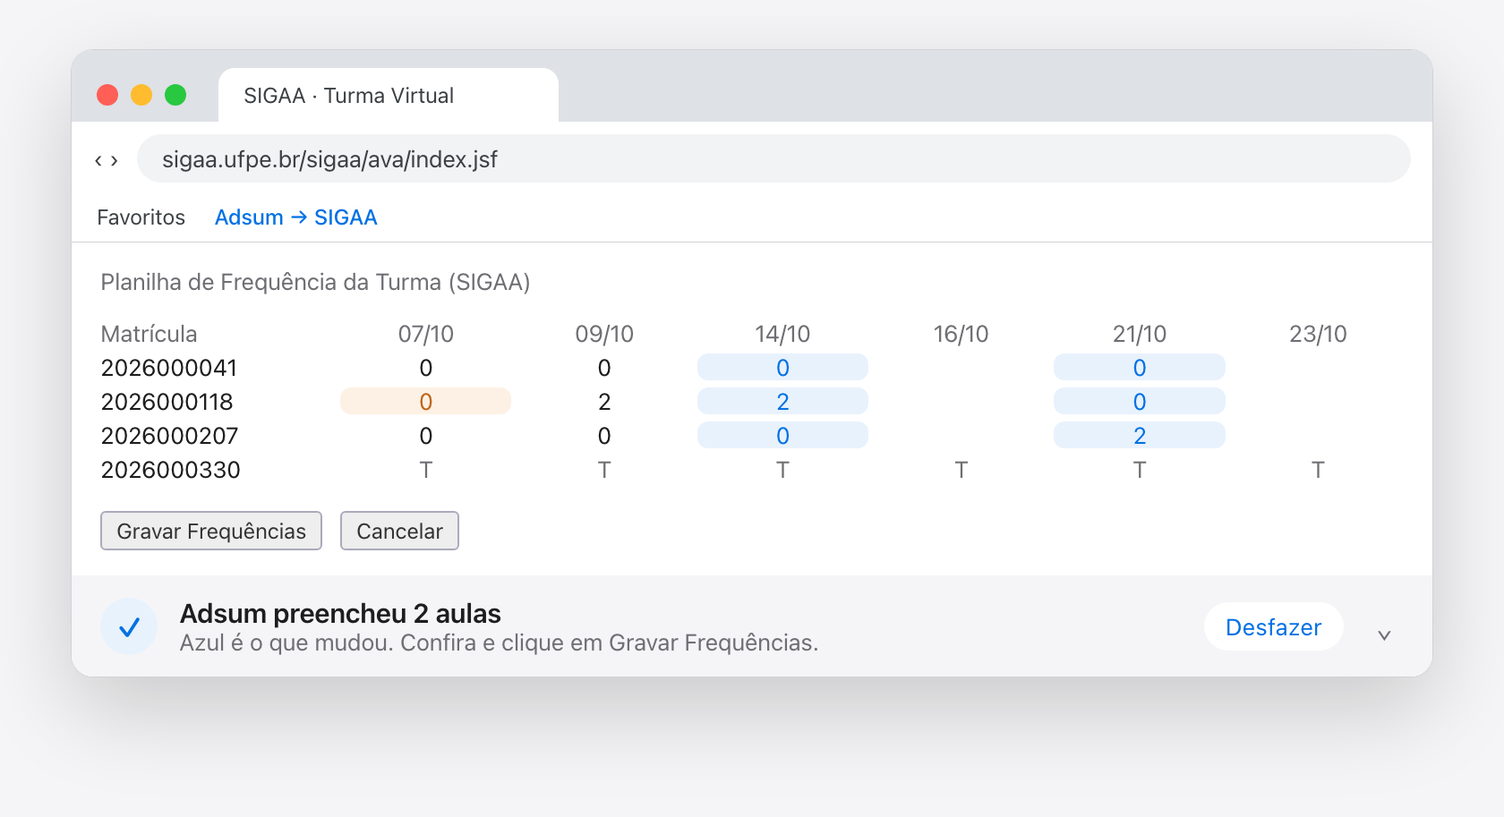
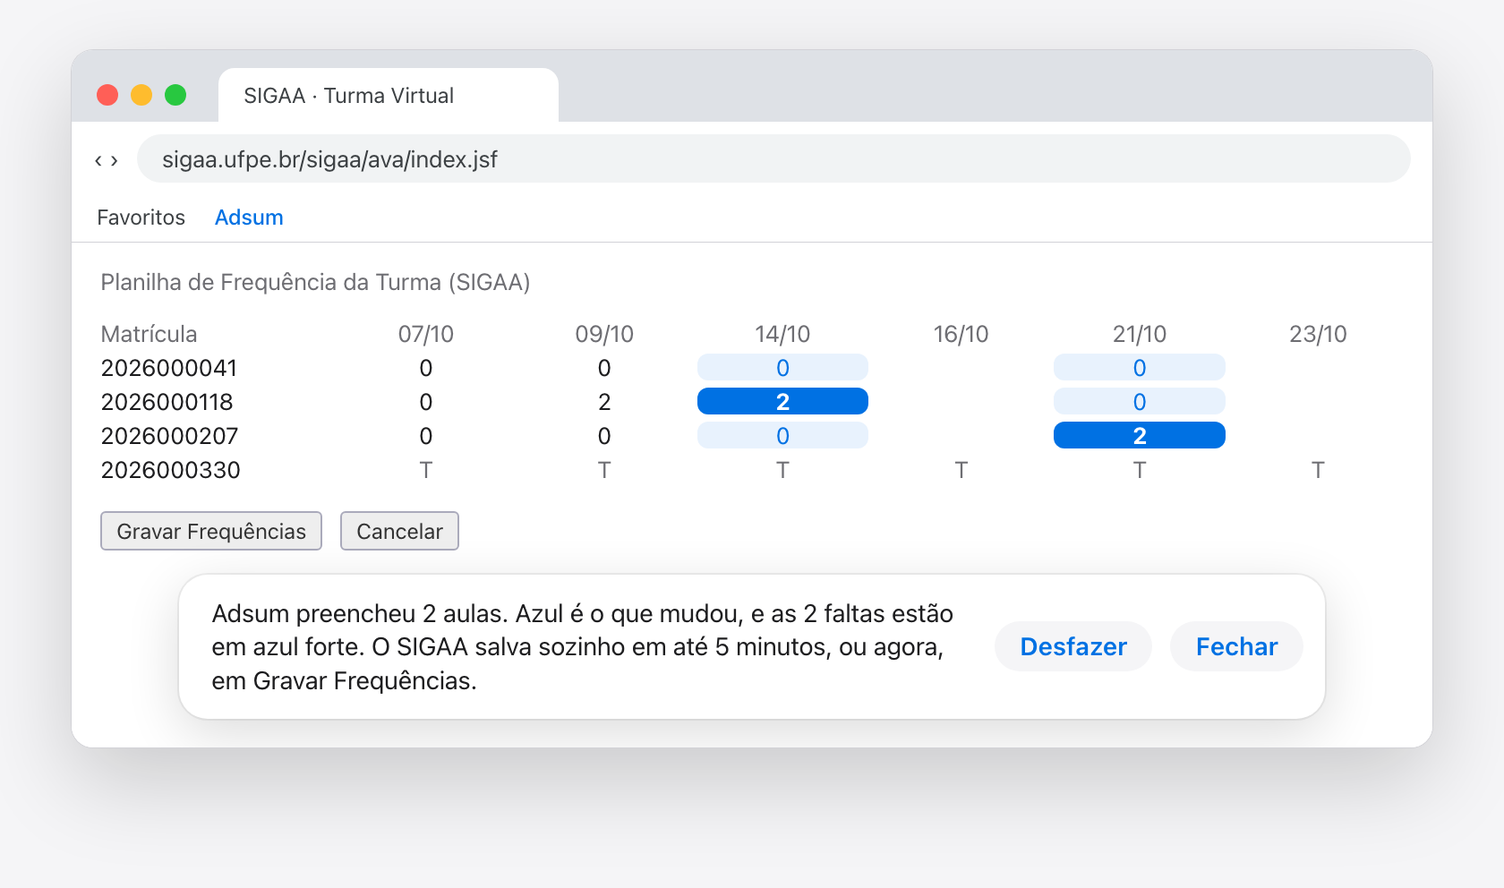
v2, passo 29: vitrine com a turma perguntada e a chamada sem lugar; esboço redesenhado

diff --git a/docs/esboco_sigaa/esboco.html b/docs/esboco_sigaa/esboco.html
@@ -62,6 +62,15 @@ h1{font-size:28px;font-weight:600;letter-spacing:-.6px;margin:4px 0 2px}
 .caixa{flex:1;background:#f1f3f4;border-radius:980px;padding:6px 14px}
 .favoritos{display:flex;gap:16px;padding:5px 14px 7px;font-size:12px;color:#3c4043;background:var(--f);border-bottom:.5px solid var(--sep)}
 .favoritos b{font-weight:500;color:var(--ac)}
+/* Fase 3 (docs/11, passos 23 a 30) */
+.azf{background:var(--ac);color:#fff;font-weight:700;border-radius:6px}
+.flutua{position:absolute;left:50%;bottom:16px;transform:translateX(-50%);width:640px;display:flex;align-items:center;gap:10px;background:var(--f);border-radius:16px;padding:12px 12px 12px 18px;font-size:14px;line-height:1.35;box-shadow:0 8px 30px rgb(0 0 0/.14),0 0 0 1px rgb(0 0 0/.06)}
+.flutua button{background:var(--fa);font-weight:600;padding:7px 14px;flex:none}
+.opcoes{display:flex;flex-wrap:wrap;gap:8px;margin-top:8px}
+.opcoes button{background:var(--acf);color:var(--ac);font-size:14px;font-weight:600;padding:7px 14px}
+.mini-barra{display:flex;gap:8px;align-items:center;height:28px;padding:0 10px;border-radius:8px;background:var(--fa);box-shadow:inset 0 0 0 1px var(--sep);width:240px;margin:0 auto}
+.mini-barra i{width:44px;height:10px;border-radius:980px;background:var(--sep);display:block}
+.mini-barra b{padding:3px 12px;border-radius:980px;background:var(--ac);color:#fff;font-size:12px}
 @media (prefers-color-scheme:dark){.abas{background:#202124}.aba,.enderecos,.favoritos{color:#e8eaed}.caixa{background:#303134}}
 </style>
 </head>
@@ -127,49 +136,83 @@ h1{font-size:28px;font-weight:600;letter-spacing:-.6px;margin:4px 0 2px}
   </div>
 </div></div></section>
 
-<!-- #recusa — o favorito clicado fora da planilha -->
+<!-- #recusa — a planilha não casa com nenhuma turma do Adsum -->
 <section class="estado" id="recusa"><div class="palco"><div class="janela">
   <div class="cromo"><span class="luzes"><i style="background:#ff5f57"></i><i style="background:#febc2e"></i><i style="background:#28c840"></i></span><span class="endereco">willianrupert.github.io</span></div>
   <div class="corpo" style="padding-bottom:26px">
-    <div style="text-align:right"><button style="color:var(--tf);padding:0;font-size:14px">Fechar</button></div>
     <div class="icone" style="width:56px;height:56px;font-size:26px;background:var(--alf);color:var(--al);margin:10px 0 14px">!</div>
-    <h1 style="font-size:24px">Esta página não é a planilha de frequência</h1>
-    <p class="apoio" style="font-size:15px;line-height:1.47;margin:10px 0 18px">Na Turma Virtual, abra Alunos e depois Lançar Freq. em Planilha. Então clique no favorito de novo.</p>
-    <div class="cartao"><div class="icone" style="background:var(--f);color:var(--tf)">≡</div><div style="flex:1"><div style="font-size:15px">Prefere lançar à mão?</div><div class="fraco">Veja quem faltou em cada aula.</div></div><span class="seta">›</span></div>
+    <h1 style="font-size:24px">Esta turma não está no Adsum</h1>
+    <p class="apoio" style="font-size:15px;line-height:1.47;margin:10px 0 0">Nenhuma turma do Adsum tem o código e as matrículas desta planilha.</p>
   </div>
 </div></div></section>
 
-<!-- #barra — a janela fechou; a planilha do SIGAA com o que mudou -->
-<section class="estado" id="barra"><div class="palco"><div class="navegador" style="width:760px"><div class="abas"><span class="luzes"><i style="background:#ff5f57"></i><i style="background:#febc2e"></i><i style="background:#28c840"></i></span><span class="aba">SIGAA · Turma Virtual</span></div><div class="enderecos"><span>‹ ›</span><span class="caixa">sigaa.ufpe.br/sigaa/ava/index.jsf</span></div><div class="favoritos"><span>Favoritos</span><b>Adsum → SIGAA</b></div><div class="planilha" style="width:100%;border-radius:0;box-shadow:none">
+<!-- #pergunta — duas turmas servem: o professor escolhe (passo 23) -->
+<section class="estado" id="pergunta"><div class="palco"><div class="janela">
+  <div class="cromo"><span class="luzes"><i style="background:#ff5f57"></i><i style="background:#febc2e"></i><i style="background:#28c840"></i></span><span class="endereco">willianrupert.github.io</span></div>
+  <div class="corpo" style="padding-bottom:26px">
+    <h1 style="font-size:24px">Qual é a turma desta planilha?</h1>
+    <p class="apoio">Mais de uma turma do Adsum tem as matrículas desta planilha.</p>
+    <div class="lista">
+      <div class="cartao"><div class="forte" style="flex:1">2026.2 - ENG0101 - T01</div><span class="seta">›</span></div>
+      <div class="cartao"><div class="forte" style="flex:1">2026.2 - ENG0101 - T01 (cópia)</div><span class="seta">›</span></div>
+    </div>
+  </div>
+</div></div></section>
+
+<!-- #semlugar — a aula dada em outra data: em qual aula do SIGAA ela entra (passo 30) -->
+<section class="estado" id="semlugar"><div class="palco"><div class="janela">
+  <div class="cromo"><span class="luzes"><i style="background:#ff5f57"></i><i style="background:#febc2e"></i><i style="background:#28c840"></i></span><span class="endereco">willianrupert.github.io</span></div>
+  <div class="corpo">
+    <h1>1 aula para lançar</h1>
+    <p class="apoio">ENG0101 · T01. Planilha lida agora, 48 alunos, todos pela matrícula.</p>
+    <div class="cartao" style="flex-direction:column;align-items:flex-start;gap:2px;margin-bottom:8px">
+      <div class="forte">Sáb, 18/10</div>
+      <div class="fraco">45 presentes, 3 faltas</div>
+      <div style="font-size:14px;margin-top:6px">O SIGAA não tem aula neste dia. Em qual aula ela entra?</div>
+      <div class="opcoes"><button>Qui, 16/10</button><button>Ter, 14/10</button><button>Qui, 09/10</button></div>
+    </div>
+    <div class="lista">
+      <div class="cartao"><span class="marca">✓</span><div style="flex:1"><div class="forte">Ter, 21/10</div><div class="fraco">46 presentes, 2 faltas</div></div><span class="seta">⌄</span></div>
+    </div>
+    <button class="acao">Preencher 1 aula</button>
+    <button class="quieto">Agora não</button>
+    <div class="garantia">Ao preencher, o SIGAA salva sozinho em até 5 minutos.</div>
+  </div>
+</div></div></section>
+
+<!-- #barra — a janela fechou; a planilha do SIGAA com o que mudou (passo 25) -->
+<section class="estado" id="barra"><div class="palco"><div class="navegador" style="width:760px"><div class="abas"><span class="luzes"><i style="background:#ff5f57"></i><i style="background:#febc2e"></i><i style="background:#28c840"></i></span><span class="aba">SIGAA · Turma Virtual</span></div><div class="enderecos"><span>‹ ›</span><span class="caixa">sigaa.ufpe.br/sigaa/ava/index.jsf</span></div><div class="favoritos"><span>Favoritos</span><b>Adsum</b></div><div class="planilha" style="width:100%;border-radius:0;box-shadow:none;position:relative;padding-bottom:96px">
   <div style="padding:14px 16px;font-size:13px;color:var(--tf)">Planilha de Frequência da Turma (SIGAA)</div>
   <div class="grade">
     <span style="color:var(--tf)">Matrícula</span><span style="color:var(--tf)">07/10</span><span style="color:var(--tf)">09/10</span><span style="color:var(--tf)">14/10</span><span style="color:var(--tf)">16/10</span><span style="color:var(--tf)">21/10</span><span style="color:var(--tf)">23/10</span>
     <span>2026000041</span><span>0</span><span>0</span><span class="az">0</span><span>&nbsp;</span><span class="az">0</span><span>&nbsp;</span>
-    <span>2026000118</span><span class="la">0</span><span>2</span><span class="az">2</span><span>&nbsp;</span><span class="az">0</span><span>&nbsp;</span>
-    <span>2026000207</span><span>0</span><span>0</span><span class="az">0</span><span>&nbsp;</span><span class="az">2</span><span>&nbsp;</span>
+    <span>2026000118</span><span>0</span><span>2</span><span class="azf">2</span><span>&nbsp;</span><span class="az">0</span><span>&nbsp;</span>
+    <span>2026000207</span><span>0</span><span>0</span><span class="az">0</span><span>&nbsp;</span><span class="azf">2</span><span>&nbsp;</span>
     <span>2026000330</span><span style="color:var(--tf)">T</span><span style="color:var(--tf)">T</span><span style="color:var(--tf)">T</span><span style="color:var(--tf)">T</span><span style="color:var(--tf)">T</span><span style="color:var(--tf)">T</span>
   </div>
   <div class="botoes-sigaa"><span>Gravar Frequências</span><span>Cancelar</span></div>
-  <div class="barra">
-    <div class="icone" style="background:var(--acf);color:var(--ac)">✓</div>
-    <div style="flex:1"><div style="font-size:15px;font-weight:600">Adsum preencheu 2 aulas</div><div class="fraco">Azul é o que mudou. Confira e clique em Gravar Frequências.</div></div>
-    <button class="pilula" style="background:var(--f)">Desfazer</button>
-    <button style="color:var(--tf);padding:6px">⌄</button>
+  <div class="flutua">
+    <span style="flex:1">Adsum preencheu 2 aulas. Azul é o que mudou, e as 2 faltas estão em azul forte. O SIGAA salva sozinho em até 5 minutos, ou agora, em Gravar Frequências.</span>
+    <button>Desfazer</button><button>Fechar</button>
   </div>
 </div></div></div></section>
 
-<!-- #instalar — o cartão nos Ajustes do Adsum -->
+<!-- #instalar — o painel nos Ajustes do Adsum (passos 26 e 27) -->
 <section class="estado" id="instalar"><div class="palco"><div class="navegador" style="width:600px"><div class="abas"><span class="luzes"><i style="background:#ff5f57"></i><i style="background:#febc2e"></i><i style="background:#28c840"></i></span><span class="aba">Adsum</span></div><div class="enderecos"><span>‹ ›</span><span class="caixa">willianrupert.github.io/adsum/</span></div><div class="favoritos"><span>Favoritos</span><span style="color:var(--tf)">arraste para cá</span></div><div class="ajustes" style="width:100%;border-radius:0">
   <div class="fraco" style="font-size:14px">Ajustes</div>
   <h1 style="font-size:24px">Lançar no SIGAA</h1>
-  <p class="apoio" style="font-size:15px;line-height:1.47">Arraste o botão abaixo para a barra de favoritos do Chrome. Depois, na planilha de frequência do SIGAA, é só clicar nele.</p>
-  <span class="favorito">Adsum → SIGAA</span>
-  <div class="passos">
-    <div class="passo"><b>1. Mostre a barra</b>Cmd+Shift+B no Mac, Ctrl+Shift+B no Windows.</div>
-    <div class="passo"><b>2. Arraste</b>O botão azul até a barra. Clicar nele aqui não faz nada.</div>
-    <div class="passo"><b>3. Use no SIGAA</b>Turma Virtual, Alunos, Lançar Freq. em Planilha.</div>
+  <p class="apoio" style="font-size:14px">Um clique na planilha de frequência preenche as aulas.</p>
+  <div class="centro">
+    <p style="font-size:15px;line-height:1.47;margin:0 auto 12px;max-width:34ch">Arraste o botão para a barra de favoritos. Na planilha de frequência do SIGAA, clique nele.</p>
+    <div class="mini-barra"><i></i><i></i><b>Adsum</b></div>
+    <div style="margin:22px 0 10px"><span class="favorito" style="font-weight:600">Adsum</span></div>
+    <div class="fraco">Sem a barra de favoritos à vista? No Chrome, ⇧⌘B no Mac, Ctrl+Shift+B no Windows.</div>
   </div>
-  <div class="fraco" style="margin-top:14px">O favorito nunca vê sua senha e nunca grava. Quem grava é você.</div>
+  <div class="forte" style="margin-top:20px">Últimos preenchimentos</div>
+  <ul style="margin:6px 0 0;padding-left:18px;font-size:14px;line-height:1.6">
+    <li>ENG0101 · T01, 21/10 às 10:12: 2 aulas, 5 faltas</li>
+    <li>ENG0101 · T01, 14/10 às 10:05: 1 aula, 4 faltas</li>
+  </ul>
 </div></div></div></section>
 
 <script>

diff --git a/src/ui/sigaa/VitrineSigaa.tsx b/src/ui/sigaa/VitrineSigaa.tsx
@@ -18,24 +18,27 @@ const ALUNOS = [
   ['20269000004', 'Enzo Barreto'],
 ] as const
 
-/** Depois das duas aulas inventadas: nada delas é futuro para a planilha. */
+/** Depois das aulas inventadas: nada delas é futuro para a planilha. */
 const AGORA = () => new Date('2026-10-20T12:00:00')
 const DIAS = [
   { dia: 13, data: 'Tue Oct 13 00:00:00 BRT 2026' },
   { dia: 15, data: 'Thu Oct 15 00:00:00 BRT 2026' },
+  { dia: 19, data: 'Mon Oct 19 00:00:00 BRT 2026' },
 ]
 
 /**
  * A planilha como o SIGAA a guarda (`docs/12`): terça sem nada lançado (Débora
- * faltou); quinta lançada, com o Caio diferente do Adsum.
+ * faltou); quinta lançada, com o Caio diferente do Adsum; segunda (19/10)
+ * vazia, uma aula sem chamada no Adsum.
  */
 function planilha(tudoIgual: boolean): BrutoPlanilha {
   const terca = ['0', '0', '2', '0']
   const quinta = ['0', tudoIgual ? '0' : '2', '0', '0']
-  const auxAulas = DIAS.map(({ dia, data }, j) => [dia, 10, 2, data, j === 1 || tudoIgual, false, false, false, 2026, false].join(','))
+  const dias = tudoIgual ? DIAS.slice(0, 2) : DIAS
+  const auxAulas = dias.map(({ dia, data }, j) => [dia, 10, 2, data, j === 1 || (tudoIgual && j === 0), false, false, false, 2026, false].join(','))
   const auxAlunos = ALUNOS.flatMap(([matricula], i) =>
-    DIAS.map(({ dia, data }, j) => {
-      const faltas = j === 0 ? (tudoIgual ? terca[i] : 'null') : quinta[i]
+    dias.map(({ dia, data }, j) => {
+      const faltas = j === 0 ? (tudoIgual ? terca[i] : 'null') : j === 1 ? quinta[i] : 'null'
       return [900001 + i, matricula, 'ALUNO INVENTADO', dia, 10, faltas, 0, false, 2, 800001 + i, data, false, false, true, false, false].join(',')
     }),
   )
@@ -47,11 +50,18 @@ function planilha(tudoIgual: boolean): BrutoPlanilha {
   }
 }
 
-async function semear(repositorio: Repositorio) {
-  await repositorio.salvarTurma(
-    TURMA,
-    ALUNOS.map(([matricula, nome]) => ({ turma: TURMA, chave: matricula, matricula, nome, nomeCompleto: nome.toUpperCase(), papel: 'aluno' as const })),
-  )
+interface Semeadura {
+  /** Uma segunda turma com a mesma gente: a folha pergunta qual é. */
+  copia?: boolean
+  /** Uma chamada num sábado (17/10) que o SIGAA não tem. */
+  sabado?: boolean
+}
+
+async function semear(repositorio: Repositorio, { copia = false, sabado = false }: Semeadura = {}) {
+  const pessoas = (turma: string) =>
+    ALUNOS.map(([matricula, nome]) => ({ turma, chave: matricula, matricula, nome, nomeCompleto: nome.toUpperCase(), papel: 'aluno' as const }))
+  await repositorio.salvarTurma(TURMA, pessoas(TURMA))
+  if (copia) await repositorio.salvarTurma(`${TURMA} (cópia)`, pessoas(`${TURMA} (cópia)`))
   let n = 0
   const evento = (dia: string, parcial: Pick<Evento, 'origem'> & Partial<Evento>): Evento => ({
     eventoId: `web-vitrine-${dia.replaceAll('-', '')}-${++n}`,
@@ -62,29 +72,30 @@ async function semear(repositorio: Repositorio) {
     resultado: 'ok',
     ...parcial,
   })
-  for (const dia of ['2026-10-13', '2026-10-15']) {
+  for (const dia of ['2026-10-13', '2026-10-15', ...(sabado ? ['2026-10-17'] : [])]) {
     await repositorio.acrescentarEvento(evento(dia, { origem: 'professor' }))
     for (const [matricula, nome] of ALUNOS) {
       if (dia === '2026-10-13' && nome === 'Débora Nunes') continue
+      if (dia === '2026-10-17' && nome === 'Enzo Barreto') continue
       await repositorio.acrescentarEvento(evento(dia, { origem: 'cracha', matricula, nome }))
     }
   }
 }
 
-function Cena({ base, bruto, ligada = true }: { base: string; bruto?: BrutoPlanilha; ligada?: boolean }) {
+function Cena({ base, bruto, ligada = true, copia, sabado }: { base: string; bruto?: BrutoPlanilha; ligada?: boolean } & Semeadura) {
   const [vez, setVez] = useState(0)
   const [pronta, setPronta] = useState<{ repositorio: Repositorio; ponte: PonteSimulavel; vez: number }>()
 
   useEffect(() => {
     let vale = true
     void baseDaVitrine(base).then(async (repositorio) => {
-      await semear(repositorio)
+      await semear(repositorio, { copia, sabado })
       if (vale) setPronta({ repositorio, ponte: ponteDeEnsaio({ ligada }), vez })
     })
     return () => {
       vale = false
     }
-  }, [base, ligada, vez])
+  }, [base, ligada, vez, copia, sabado])
 
   // Depois da folha montada e ouvindo: o favorito "clicado" na planilha.
   useEffect(() => {
@@ -103,6 +114,12 @@ export function CenasDoSigaa({ embrulho: Embrulho }: { embrulho: (props: { titul
       </Embrulho>
       <Embrulho titulo="SIGAA: tudo confere" quando="o favorito de novo, depois do Gravar">
         <Cena base="adsum-vitrine-sigaa-confere" bruto={planilha(true)} />
+      </Embrulho>
+      <Embrulho titulo="SIGAA: qual turma?" quando="duas turmas do Adsum com as matrículas da planilha">
+        <Cena base="adsum-vitrine-sigaa-pergunta" bruto={planilha(false)} copia />
+      </Embrulho>
+      <Embrulho titulo="SIGAA: chamada sem lugar" quando="aula dada num dia que o SIGAA não tem">
+        <Cena base="adsum-vitrine-sigaa-sem-lugar" bruto={planilha(false)} sabado />
       </Embrulho>
       <Embrulho titulo="SIGAA: recusa" quando="janela aberta sem o favorito">
         <Cena base="adsum-vitrine-sigaa-recusa" ligada={false} />

diff --git a/src/ui/sigaa/VitrineSigaa.test.tsx b/src/ui/sigaa/VitrineSigaa.test.tsx
@@ -1,17 +1,20 @@
 import { describe, expect, it } from 'vitest'
-import { render, screen } from '@testing-library/react'
+import { render, screen, within } from '@testing-library/react'
 import userEvent from '@testing-library/user-event'
 import { CenasDoSigaa } from './VitrineSigaa.tsx'
 
 describe('a janela do SIGAA na vitrine', () => {
-  it('mostra os três estados com gente inventada, e Preencher recomeça a cena', async () => {
+  it('mostra os estados com gente inventada, e Preencher recomeça a cena', async () => {
     const usuario = userEvent.setup()
     render(<CenasDoSigaa embrulho={({ titulo, children }) => <section aria-label={titulo}>{children}</section>} />)
     expect(await screen.findByRole('heading', { name: '1 aula para lançar' })).toBeInTheDocument()
     expect(await screen.findByRole('heading', { name: 'Tudo confere' })).toBeInTheDocument()
     expect(await screen.findByRole('heading', { name: 'Abra pela planilha do SIGAA' })).toBeInTheDocument()
+    expect(await screen.findByRole('heading', { name: 'Qual é a turma desta planilha?' })).toBeInTheDocument()
+    expect(await screen.findByText('O SIGAA não tem aula neste dia. Em qual aula ela entra?')).toBeInTheDocument()
 
-    await usuario.click(screen.getByRole('button', { name: 'Preencher 1 aula' }))
-    expect(await screen.findByRole('heading', { name: '1 aula para lançar' })).toBeInTheDocument()
+    const lancar = screen.getByRole('region', { name: 'SIGAA: há o que lançar' })
+    await usuario.click(within(lancar).getByRole('button', { name: 'Preencher 1 aula' }))
+    expect(await within(lancar).findByRole('heading', { name: '1 aula para lançar' })).toBeInTheDocument()
   })
 })

diff --git a/scripts/gerar_esboco_sigaa.py b/scripts/gerar_esboco_sigaa.py
@@ -33,6 +33,8 @@ ESTADOS = {
     'barra': 840,
     'confere': 500,
     'recusa': 500,
+    'pergunta': 500,
+    'semlugar': 500,
 }
 
 CHROME_CANDIDATOS = [

diff --git a/docs/09_esboco_da_janela.md b/docs/09_esboco_da_janela.md
@@ -1,8 +1,9 @@
 # 09 — Esboço da janela do favorito
 
-As telas da v2 (`docs/08_lancar_no_sigaa.md`) antes de uma linha de código.
-Esboço de 24/09/2026. Especificação, não implementada; as três perguntas do
-fim continuam em aberto em 25/09/2026. É desenho, não captura: o desenho é
+As telas da v2 (`docs/08_lancar_no_sigaa.md`). Esboço de 24/09/2026, feito
+antes do código; as telas da fase 3 (`docs/11`, passos 23 a 30) foram
+redesenhadas em 29/09 conforme implementadas. As telas de verdade, com gente
+inventada, estão na vitrine (`#/vitrine`, em desenvolvimento). É desenho, não captura: o desenho é
 [`esboco_sigaa/esboco.html`](esboco_sigaa/esboco.html), com os tokens do
 `estilo.css` e gente inventada, e as imagens saem dele por
 `scripts/gerar_esboco_sigaa.py`. Mudar uma tela é mudar o HTML e rodar o
@@ -15,11 +16,11 @@ palavra.
 
 ## 1. Instalar, uma vez
 
-![Cartão "Lançar no SIGAA" nos Ajustes do Adsum](esboco_sigaa/instalar.png)
+![Painel "Lançar no SIGAA" nos Ajustes do Adsum](esboco_sigaa/instalar.png)
 
-Nos Ajustes. O botão azul é o favorito: **arrasta-se** para a barra, e
-clicar nele ali não faz nada — é assim que o Chrome protege quem usa. Três
-passos, uma frase de garantia no pé.
+Nos Ajustes. O botão azul "Adsum" é o favorito, gerado no build: **arrasta-se**
+para a barra, e o gesto está desenhado acima dele. Clicado ali, não roda:
+diz que é para arrastar. Embaixo, os últimos preenchimentos, um por linha.
 
 ## 2. Há o que lançar
 
@@ -53,30 +54,52 @@ título e o botão acompanham: "2 aulas".
 
 ## 4. De volta à planilha
 
-![Planilha do SIGAA com células em azul e a barra do Adsum no pé](esboco_sigaa/barra.png)
+![Planilha do SIGAA com células em azul e o cartão do Adsum no pé](esboco_sigaa/barra.png)
 
-Preencher fecha a janela. Na planilha, azul é o que o Adsum escreveu,
-laranja é a diferença que ele não tocou, e a aula desmarcada ficou vazia. A
-barra no pé fala a mesma língua da janela, com **Desfazer** à mão e o
-chevron que a recolhe para uma pílula. O favorito aparece na barra de
-favoritos, onde mora. Os botões do SIGAA continuam do SIGAA: quem grava é o
-professor.
+Preencher fecha a janela. Na planilha, azul claro é presença que o Adsum
+escreveu, **azul forte com o número em branco é falta**: é o que se confere
+à mão, e o cartão diz quantas são. A aula desmarcada ficou vazia. O cartão
+flutua no pé, claro ou escuro como o sistema, com **Desfazer** enquanto a
+página não coletou. O favorito mora na barra de favoritos. Os botões do
+SIGAA continuam do SIGAA: quem grava é o professor.
+
+Em tela cheia no Mac, o Chrome abre a janela como aba. A folha, então,
+fica centrada, com o ícone do Adsum no alto, e ao Preencher a aba fecha e a
+planilha volta.
 
 ## 5. Tudo confere
 
 ![Janela com um visto grande e "Tudo confere"](esboco_sigaa/confere.png)
 
-O favorito de novo, depois do Gravar. É esta tela que atualiza "Conferido
-até" no cartão da turma. O ajuste feito pelo professor aparece como fato,
+O favorito de novo, depois do Gravar. Seria esta tela a atualizar
+"Conferido até" no cartão da turma, que ainda não existe. O ajuste feito pelo professor aparece como fato,
 não como erro.
 
 ## 6. Recusa
 
-![Janela explicando que a página não é a planilha de frequência](esboco_sigaa/recusa.png)
+![Janela dizendo que a turma da planilha não está no Adsum](esboco_sigaa/recusa.png)
 
-Nunca um beco. Diz o que houve e onde clicar no SIGAA. O chão, se o
-favorito falhar, é "Ver presenças" no Adsum: quem faltou em cada aula, para
-lançar à mão (a lista própria para isso saiu em 29/09).
+Nunca um beco: diz o que houve e o que fazer. Se o favorito falhar, o chão é
+"Ver presenças" no Adsum, onde está quem faltou em cada aula, para lançar à
+mão. A lista própria para isso saiu em 29/09.
+
+## 7. Qual é a turma
+
+![Janela perguntando qual de duas turmas é a da planilha](esboco_sigaa/pergunta.png)
+
+Quando duas turmas do Adsum servem (uma cadastrada duas vezes), a folha
+pergunta, em vez de recusar. Se a turma não tem o código da disciplina no
+nome, a pergunta é outra, "Esta planilha é de ENG0101", com "Usar" e "Não é
+esta"; confirmada uma vez, não se repete.
+
+## 8. A aula dada em outra data
+
+![Chamada de um sábado sem aula no SIGAA, com as aulas onde ela pode entrar](esboco_sigaa/semlugar.png)
+
+O professor realocou a aula, e a chamada está num dia que o SIGAA não tem.
+Quem decide o lugar é ele: as aulas possíveis (sem chamada, não lançadas),
+da mais perto para a mais longe. Um toque, e a aula escolhida entra na lista
+com "Chamada de Sáb, 18/10" e Desfazer.
 
 ## As três perguntas, decididas
 

diff --git a/docs/11_roteiro_v2.md b/docs/11_roteiro_v2.md
@@ -6,7 +6,7 @@ docente** (portão A). Começou em 27/09/2026, na branch `v2/lancar-no-sigaa`,
 que não vai ao ar: publicar continua preso ao congelamento do `CLAUDE.md` e
 aos portões do `08`, §6.
 
-## Andamento: 100% da fase 1, 100% da fase 2, 75% da fase 3
+## Andamento: 100% da fase 1, 100% da fase 2, 83% da fase 3
 
 100% é tudo o que dá para construir e provar sem a página real. O que depende
 dela está no fim, fora da conta.
@@ -461,7 +461,7 @@ tela pensada para o tamanho, e ao Preencher fecha e devolve a planilha.
 | 26 | O favorito chega ao professor: gerado no build e oferecido em Ajustes, com o gesto de arrastar | 20 | feito, 29/09 |
 | 27 | Histórico em Ajustes: o que foi lançado, quando, em cada turma | 10 | feito, 29/09 |
 | 28 | Ensaio no Chrome, em janela e em tela cheia | 20 |  |
-| 29 | Esboço (`docs/09`), vitrine e documentos | 10 |  |
+| 29 | Esboço (`docs/09`), vitrine e documentos | 10 | feito, 29/09 |
 | 30 | A aula dada em outra data: o professor diz em qual aula do SIGAA a chamada entra | 20 | feito, 29/09 |
 
 ### 23 · Escolha da turma
@@ -548,6 +548,19 @@ derrubadas (uma revelou uma cláusula redundante, que saiu).
 
 A planilha de presenças do Adsum continua com a data real da chamada: o
 remanejo é só sobre onde ela entra no SIGAA.
+
+### 29 · Esboço, vitrine e documentos
+
+A vitrine ganhou duas cenas, com a folha de verdade e gente inventada: "qual
+turma?" e "chamada sem lugar". O esboço (`docs/esboco_sigaa/esboco.html`)
+foi redesenhado onde a fase 3 mudou a tela: o painel dos Ajustes, a barra
+flutuante com as faltas em azul forte, a recusa sem a lista à mão, e dois
+estados novos (`pergunta`, `semlugar`). As imagens saíram de novo pelo
+script. O `docs/09` descreve as oito telas como estão.
+
+**Sabido e aceito:** o favorito arrastado aparece na barra com o globo
+genérico, sem o ícone do Adsum. O Chrome não busca ícone para favorito
+`javascript:`, e a página não tem como dar um.
 
 **De passagem:** a lei 7 das leis reais levava 4,8 s, colada no limite de
 5 s, e caía sob a suíte inteira. Medido antes da mudança (4,77 s): não era
